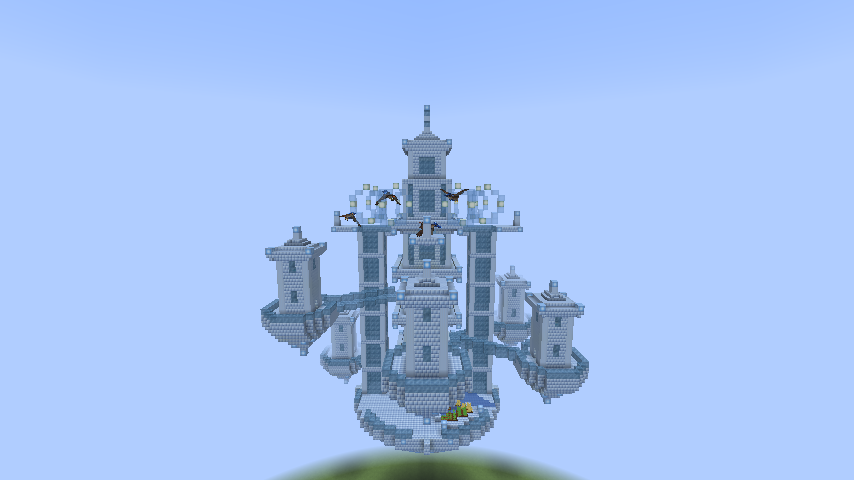
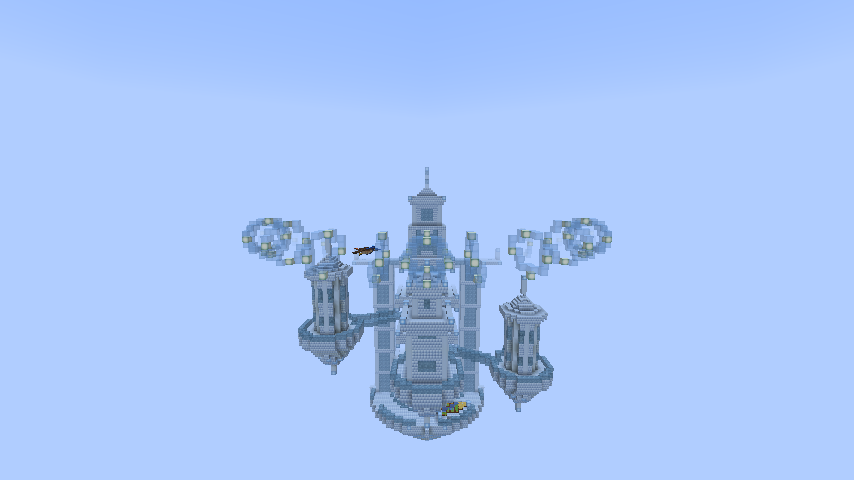
Flier highway lanes swing round the sky city outside its towers
Lanes between the city's ports now head straight out from each pad and arc round the city
34 blocks out (past the dwelling towers), as the city thread asked, instead of cutting
across the top level.

Claude-Session: https://claude.ai/code/session_012WyKZ39eYczFETd35w9FTS

Changed region(s): [[0.274, 0.2188, 0.7307, 1.0]]

diff --git a/src/main/java/com/sparky/lanternring/corps/FlierHighway.java b/src/main/java/com/sparky/lanternring/corps/FlierHighway.java
@@ -27,6 +27,7 @@ import net.minecraft.server.level.ServerLevel;
 import net.minecraft.server.level.ServerPlayer;
 import net.minecraft.sounds.SoundEvents;
 import net.minecraft.sounds.SoundSource;
+import net.minecraft.util.Mth;
 import net.minecraft.world.entity.EntitySpawnReason;
 import net.minecraft.world.entity.EntityType;
 import net.minecraft.world.entity.MobCategory;
@@ -65,6 +66,8 @@ public final class FlierHighway {
 
 	/** Lanes fly this high over the island top, hoops stand this far apart and are this wide. */
 	static final int LANE_HEIGHT = 14, HOOP_STEP = 9, HOOP_RADIUS = 3, PORT_RADIUS = 26, PAD_RADIUS = 3;
+	/** Lanes stay this far out from a sky city's middle, clear of its towers, except coming in to a pad. */
+	static final int CITY_KEEP_OUT = 34;
 	/** Hawks living on one highway, at most. */
 	static final int HAWKS = 4;
 
@@ -219,7 +222,7 @@ public final class FlierHighway {
 		for (BlockPos s : spots) pads.add(new Pad(s, s));
 		List<int[]> edges = linkUp(spots, anchor);
 		List<Lane> lanes = new ArrayList<>();
-		for (int[] e : edges) lanes.add(lane(level, e[0], e[1], pads));
+		for (int[] e : edges) lanes.add(lane(level, e[0], e[1], pads, anchor, ownPads ? 0 : CITY_KEEP_OUT));
 		return new Network(anchor, pads, lanes, ownPads);
 	}
 
@@ -279,17 +282,19 @@ public final class FlierHighway {
 	 * rises over anything solid in the way (it looks a little ahead and behind too, so it climbs
 	 * before a tower, not into it).
 	 */
-	private static Lane lane(ServerLevel level, int a, int b, List<Pad> pads) {
+	private static Lane lane(ServerLevel level, int a, int b, List<Pad> pads, BlockPos anchor, int keepOut) {
 		Vec3 from = Vec3.atCenterOf(pads.get(a).perch).add(0, 3, 0);
 		Vec3 to = Vec3.atCenterOf(pads.get(b).perch).add(0, 3, 0);
-		double length = from.distanceTo(to);
+		List<Vec3> guide = guide(from, to, Vec3.atCenterOf(anchor), keepOut);
+		double length = 0;
+		for (int i = 1; i < guide.size(); i++) length += guide.get(i).distanceTo(guide.get(i - 1));
 		int steps = Math.max(2, (int) Math.round(length / HOOP_STEP));
 		List<Vec3> points = new ArrayList<>();
 		for (int i = 1; i < steps; i++) {
 			double t = i / (double) steps;
 			// No hoop right by a pad, where several lanes meet: the pad marks the spot.
 			if (t * length < PAD_RADIUS + 4 || (1 - t) * length < PAD_RADIUS + 4) continue;
-			Vec3 p = from.lerp(to, t).add(0, Math.sin(t * Math.PI) * Math.min(6, length * 0.08), 0);
+			Vec3 p = along(guide, t * length).add(0, Math.sin(t * Math.PI) * Math.min(6, length * 0.08), 0);
 			int lift = 0;
 			while (lift < 16 && !clear(level, p.add(0, lift, 0))) lift += 2;
 			points.add(p.add(0, lift, 0));
@@ -309,6 +314,48 @@ public final class FlierHighway {
 		}
 		len += prev.distanceTo(to);
 		return new Lane(a, b, points, len);
+	}
+
+	/**
+	 * The line a lane follows: straight from pad to pad, unless that would cut through the city
+	 * (closer than {@code keepOut} to its middle). Then it heads straight out from the pad, swings
+	 * round the city just outside that radius the short way, and comes straight in to the other pad.
+	 */
+	static List<Vec3> guide(Vec3 from, Vec3 to, Vec3 centre, int keepOut) {
+		List<Vec3> out = new ArrayList<>();
+		out.add(from);
+		if (keepOut > 0 && closest(from, to, centre) < keepOut) {
+			double r = keepOut + 2;
+			double a0 = Math.atan2(from.z - centre.z, from.x - centre.x);
+			double a1 = Math.atan2(to.z - centre.z, to.x - centre.x);
+			double sweep = Mth.wrapDegrees((a1 - a0) * Mth.RAD_TO_DEG) * Mth.DEG_TO_RAD;
+			int n = Math.max(2, (int) Math.ceil(Math.abs(sweep) * r / 3));
+			for (int i = 0; i <= n; i++) {
+				double t = i / (double) n;
+				double ang = a0 + sweep * t;
+				out.add(new Vec3(centre.x + Math.cos(ang) * r, Mth.lerp(t, from.y, to.y), centre.z + Math.sin(ang) * r));
+			}
+		}
+		out.add(to);
+		return out;
+	}
+
+	/** How close a straight line between two points passes to a point, across the ground. */
+	private static double closest(Vec3 a, Vec3 b, Vec3 c) {
+		double dx = b.x - a.x, dz = b.z - a.z;
+		double len2 = dx * dx + dz * dz;
+		double t = len2 < 1e-6 ? 0 : Mth.clamp(((c.x - a.x) * dx + (c.z - a.z) * dz) / len2, 0, 1);
+		return Math.hypot(a.x + dx * t - c.x, a.z + dz * t - c.z);
+	}
+
+	/** The point a distance {@code d} along a polyline. */
+	private static Vec3 along(List<Vec3> line, double d) {
+		for (int i = 1; i < line.size(); i++) {
+			double seg = line.get(i).distanceTo(line.get(i - 1));
+			if (d <= seg || i == line.size() - 1) return line.get(i - 1).lerp(line.get(i), seg < 1e-6 ? 0 : Math.min(1, d / seg));
+			d -= seg;
+		}
+		return line.getLast();
 	}
 
 	/** Whether a hoop's worth of air (and a hawk) fits round a point. */

diff --git a/src/gametest/java/com/sparky/lanternring/test/HawkHighwayTest.java b/src/gametest/java/com/sparky/lanternring/test/HawkHighwayTest.java
@@ -65,7 +65,7 @@ public class HawkHighwayTest implements FabricClientGameTest {
 				var city = com.sparky.lanternring.city.BlueCity.cityFor(p.level(), p.blockPosition());
 				com.sparky.lanternring.city.BlueCity.buildAll(p.level(), city);
 				FlierHighway.Network net = FlierHighway.buildNow(p.level(), city.anchor);
-				p.teleportTo(city.anchor.getX() + 0.5, city.anchor.getY() + 40, city.anchor.getZ() - 60);
+				p.teleportTo(city.anchor.getX() + 0.5, city.anchor.getY() + 50, city.anchor.getZ() - 75);
 				System.out.println("[hawk] highway: " + net.pads.size() + " pads, " + net.lanes.size() + " lanes, route 0->2 "
 						+ net.route(0, 2).size() + " points, city pads " + !net.ownPads);
 			});
